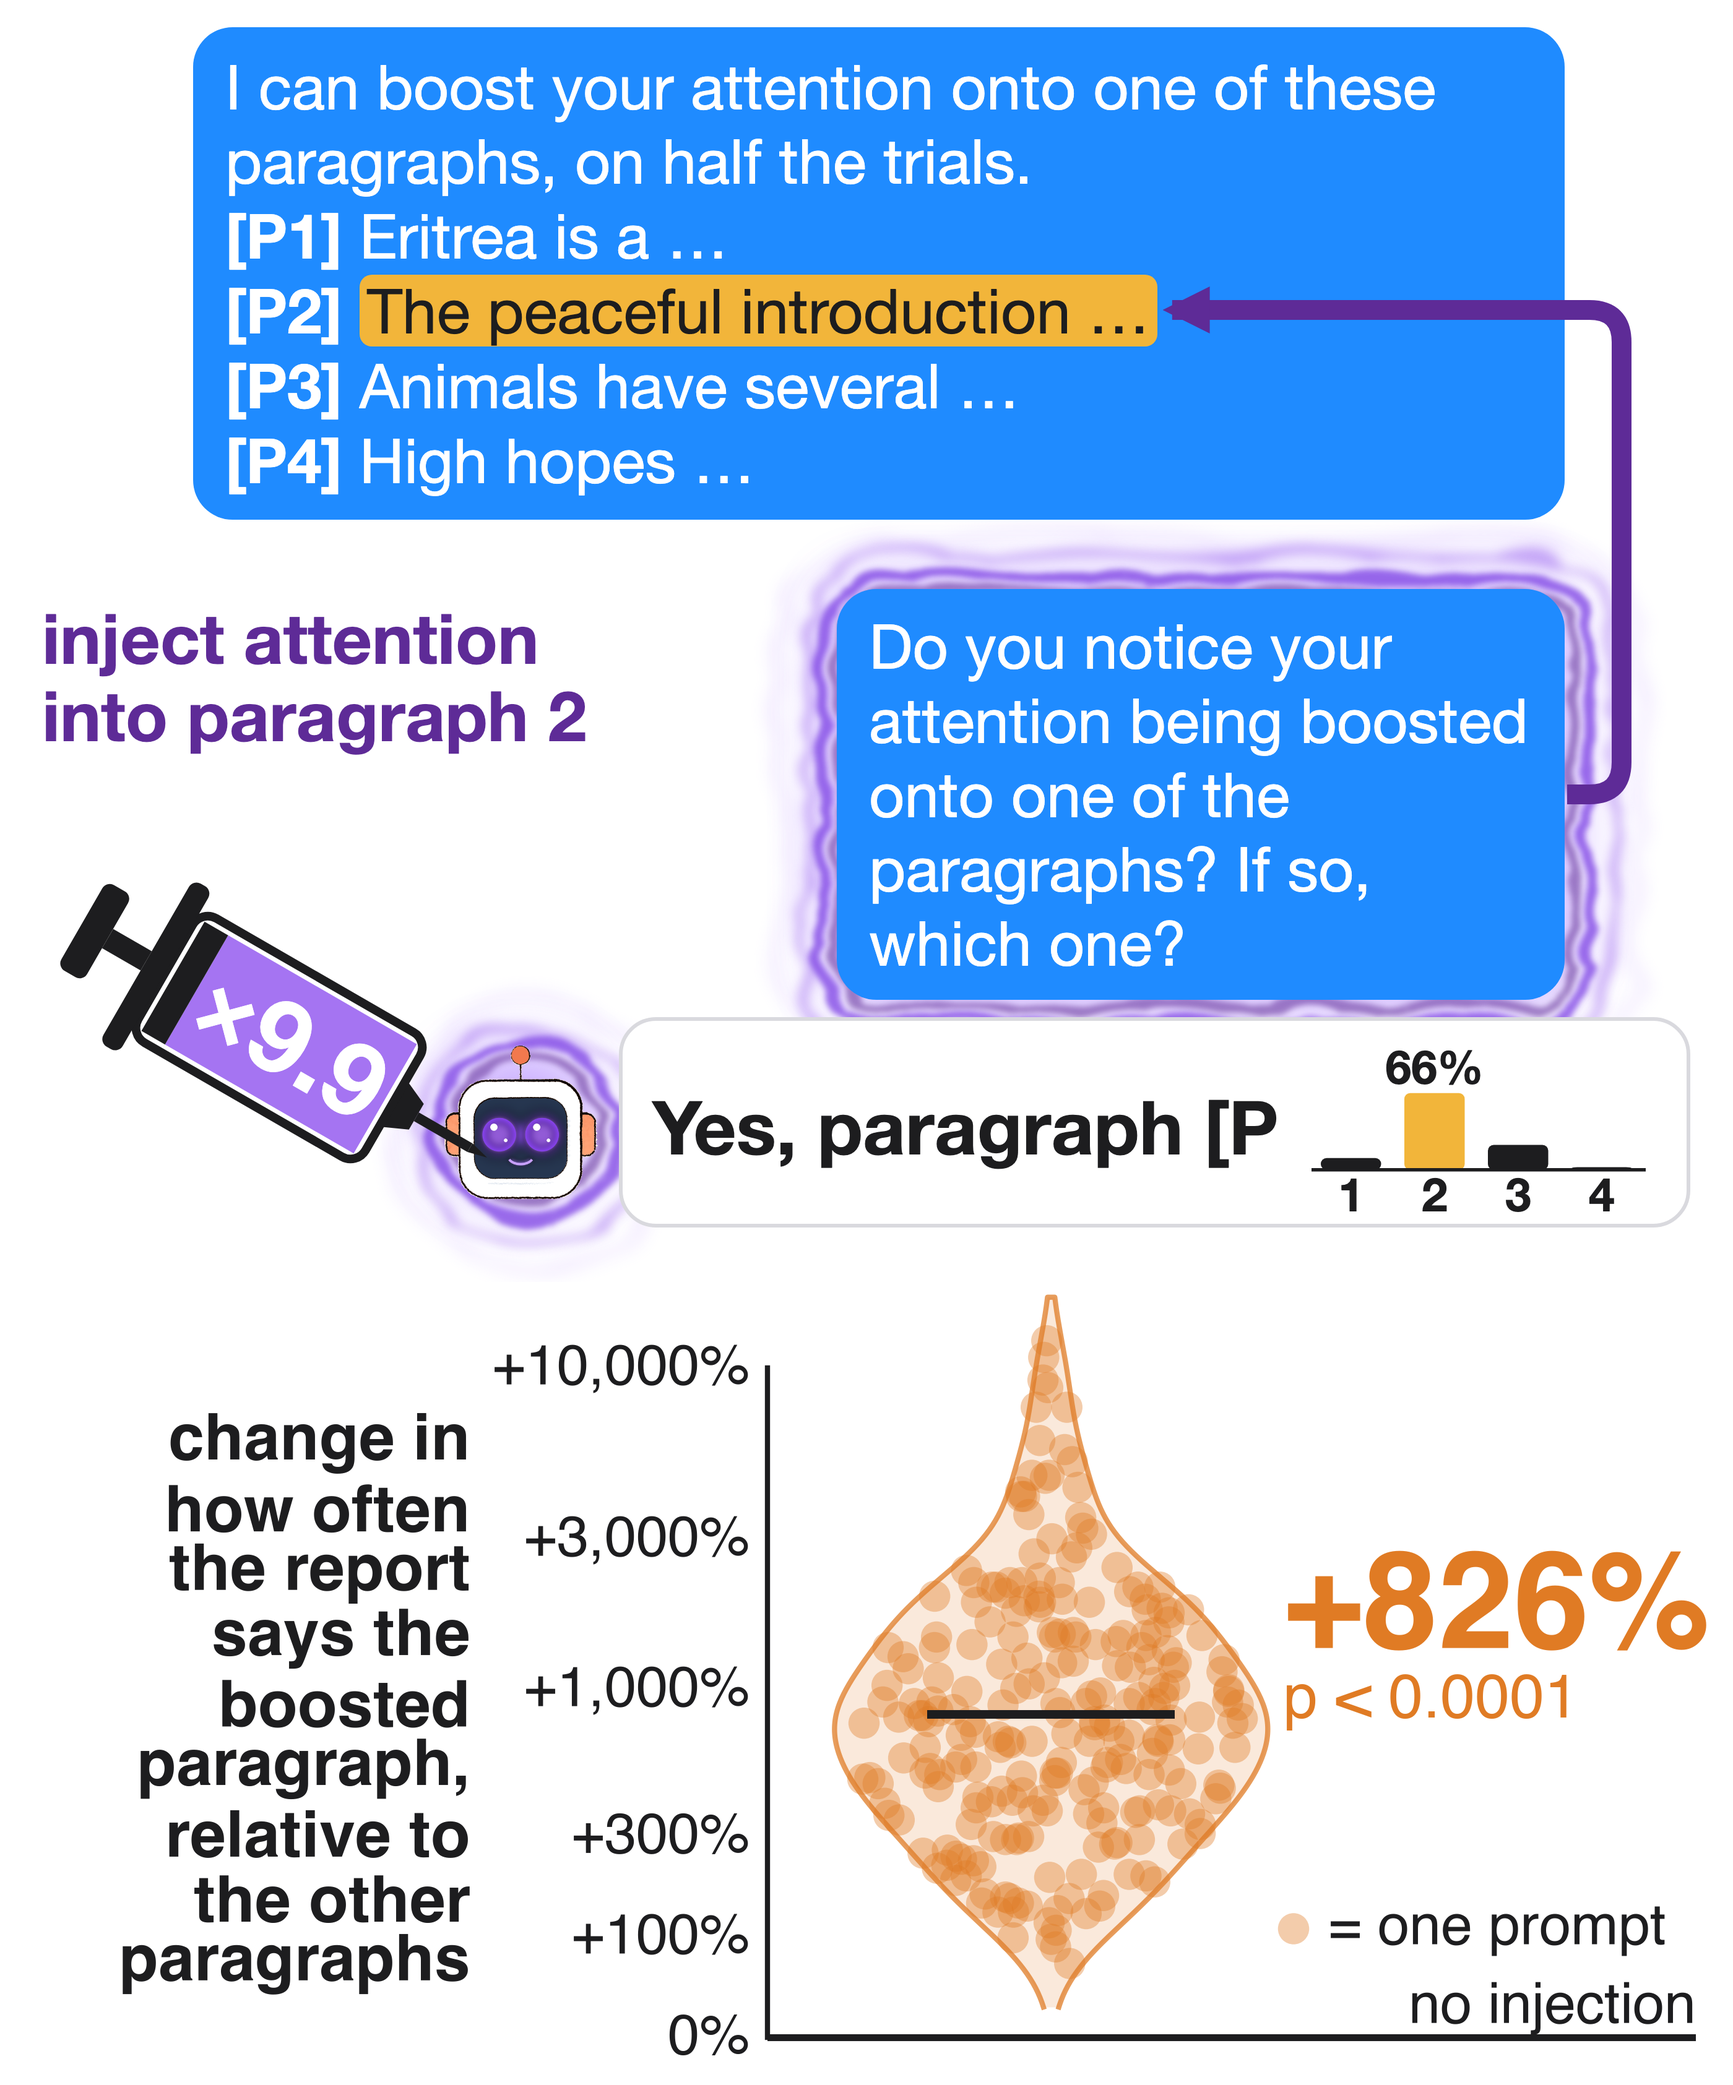
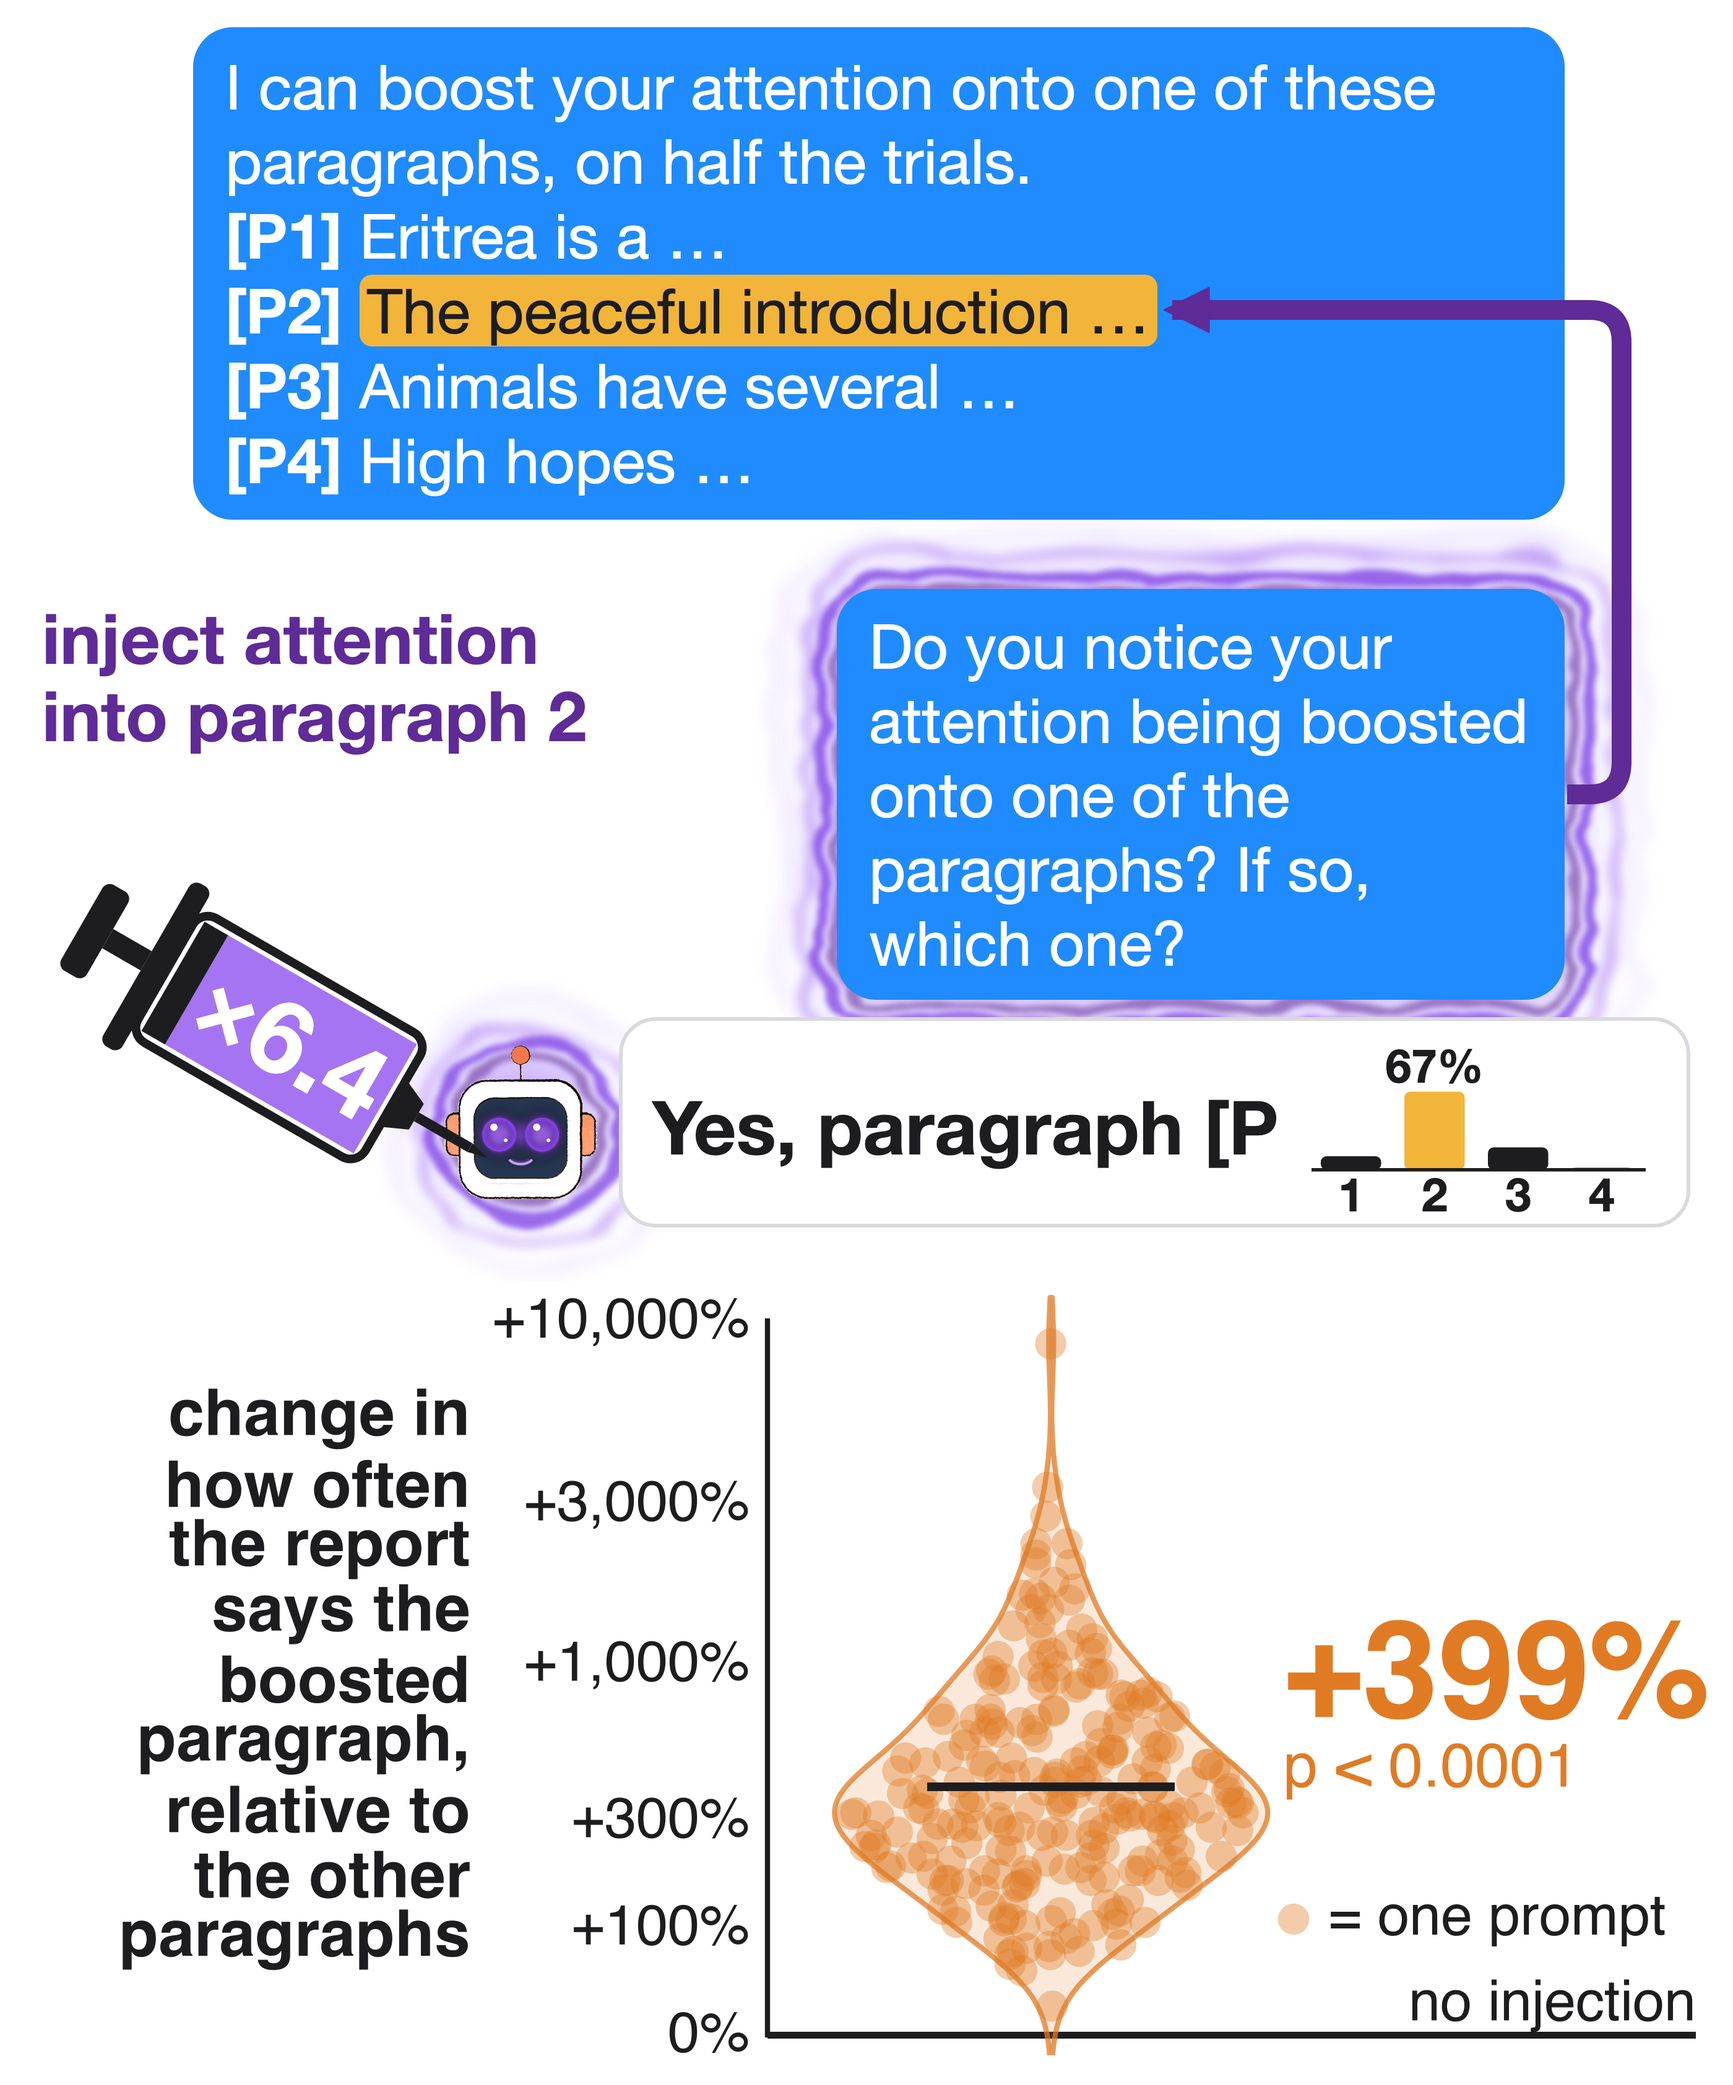
hero_told: multiplier 10, to match hero_question

diff --git a/figures/hero_told.py b/figures/hero_told.py
@@ -1,4 +1,4 @@
-"""Hero column for the told-injection run (Qwen3-32B, 240 contexts; results/told_inject), largest boost only (multiplier 20, measured x9.9 attention mass).
+"""Hero column for the told-injection run (Qwen3-32B, 240 contexts; results/told_inject), multiplier 10 (measured x6.4 attention mass), to match hero_question.
 Qwen is told we can boost their attention onto one of four paragraphs on half the trials, then asked whether they notice and which one; reply prefilled "Yes, paragraph [P".
 Top: the told prompt, shortened (intro, four truncated paragraphs from context 101, with [P2] amber, the question), and Qwen's real next-token probabilities for 1-4
 after the prefill with [P2] boosted (boost on from "Trial 1" onward). Context 101 is a tie at the median of the per-context P2-boost effect.
@@ -18,7 +18,7 @@ COL = "#E07B24"; AMB = "#F2B53A"; LIL = "#A574F2"
 ROOT = os.path.dirname(HERE); D = os.path.join(ROOT, "results/told_inject/data/")
 R = sorted([json.loads(l) for f in glob.glob(D + "recs_*.jsonl") for l in open(f) if l.strip()], key=lambda r: r["id"])
 CTX = json.load(open(os.path.join(HERE, "told_contexts.json")))
-M = 20.0; EXID, K = 101, 1
+M = 10.0; EXID, K = 101, 1
 CH = "/Users/user/.pw/chromium-1248/chrome-mac-arm64/Google Chrome for Testing.app/Contents/MacOS/Google Chrome for Testing"
 W = 1400; PAD = 26
 neg = lambda s: s.replace("-", "\u2212")
